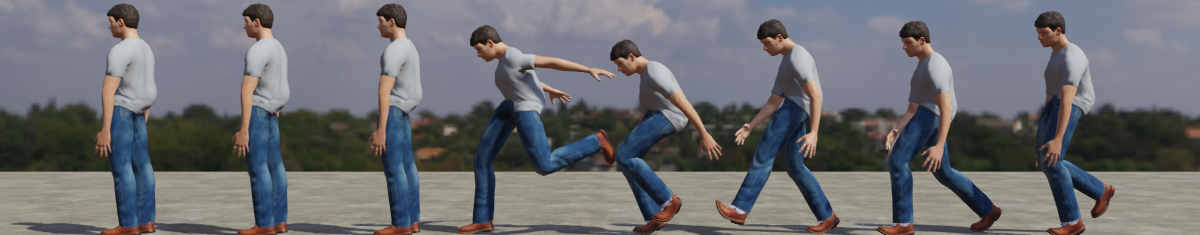
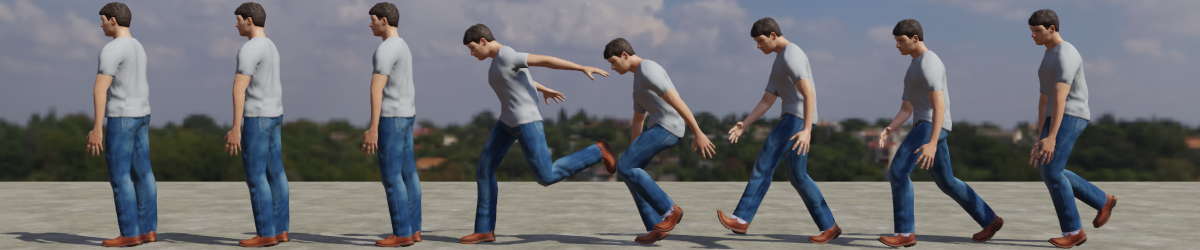
fix(samples): stand the humanoid's pelvis upright in the mocap clips
The retarget's reference pose aimed the pelvis from its joint at the
subject's ToSpine, which sits behind the subject's hips (92 degrees
from vertical against the humanoid's 20), so every clip tipped the
pelvis 72 degrees forward. The pelvis's up is now the hip joints'
midpoint to the chest on both skeletons, which agree within 4 degrees.

The clips are regenerated and the report's images recaptured. HardLand's
footstep moves to 0.333 s; strides and the other events are unchanged.

Changed region(s): [[0.0, 0.0, 1.0, 1.0], [0.6475, 0.0298, 0.6783, 0.0596], [0.1233, 0.834, 0.1542, 0.8638]]

diff --git a/tools/retarget_character_clips.py b/tools/retarget_character_clips.py
@@ -78,10 +78,14 @@ AIM = {
     "thigh_l": ("calf_l", "LeftLeg"), "calf_l": ("foot_l", "LeftFoot"), "foot_l": ("ball_l", "LeftToeBase"),
     "thigh_r": ("calf_r", "RightLeg"), "calf_r": ("foot_r", "RightFoot"), "foot_r": ("ball_r", "RightToeBase"),
 }
-# Bones aimed by two directions (up to the first child, across to the pair of joints that give left and right).
+# Bones aimed by two directions (up to a joint, across to the pair of joints that give left and right). Up is
+# measured from the bone's own joint, or from the across pair's midpoint where the joint is not comparable.
 FRAMES = {
-    "pelvis": (("spine_01", "ToSpine"), ("thigh_l", "thigh_r", "LeftUpLeg", "RightUpLeg")),
-    "spine_03": (("neck_01", "Neck"), ("clavicle_l", "clavicle_r", "LeftShoulder", "RightShoulder")),
+    # Up is the trunk's axis, the hip joints' midpoint to the chest: the subject's `ToSpine` sits behind its
+    # hips (Hips to ToSpine is 92 degrees from vertical, pelvis to spine_01 20), so aiming at it tipped the
+    # pelvis 72 degrees forward. Measured this way the two agree within 4 degrees.
+    "pelvis": (("spine_03", "Spine1"), ("thigh_l", "thigh_r", "LeftUpLeg", "RightUpLeg"), "midpoint"),
+    "spine_03": (("neck_01", "Neck"), ("clavicle_l", "clavicle_r", "LeftShoulder", "RightShoulder"), "joint"),
 }
 
 CONTACT_HEIGHT = 0.025  # metres above the ground: a shoe this low is down...
@@ -525,10 +529,14 @@ class Retargeter:
             source = MAPPING[name]
             self.ref_source[bone] = g @ reference.rot(source, reference_frame)
             if name in FRAMES:
-                (child, s_child), (left, right, s_left, s_right) = FRAMES[name]
-                up_t = R_stand[bone] @ rig.translation[idx[child]]
+                (child, s_child), (left, right, s_left, s_right), up_from = FRAMES[name]
+                if up_from == "midpoint":
+                    up_t = P_stand[idx[child]] - (P_stand[idx[left]] + P_stand[idx[right]]) / 2.0
+                    up_s = s_head(s_child) - (s_head(s_left) + s_head(s_right)) / 2.0
+                else:
+                    up_t = R_stand[bone] @ rig.translation[idx[child]]
+                    up_s = s_head(s_child) - s_head(source)
                 across_t = R_stand[bone] @ (rig.translation[idx[right]] - rig.translation[idx[left]])
-                up_s = s_head(s_child) - s_head(source)
                 across_s = s_head(s_right) - s_head(s_left)
                 turn = frame_of(up_s, across_s) @ frame_of(up_t, across_t).T
             elif name in AIM:

diff --git a/apps/samples/character/LICENSES.md b/apps/samples/character/LICENSES.md
@@ -172,7 +172,7 @@ All five takes are one performer (Male 1), captured at 30 Hz in centimetres with
 
 - **Import**: Blender's own BVH importer reads each take (scale 0.01, so metres) and every joint's world position and orientation is sampled at each captured frame; the rest runs outside Blender.
 - **Floor**: the capture floor tilts about 1 cm a metre along the walk (planted ankles rise from step to step), so a line fitted under both ankles' heights along each take's travel is taken out of every height.
-- **Retargeting**: the standing take's first frame is the reference. The humanoid is put in a matching pose (its `Stand` pose, each mapped bone turned the least that points it as the subject's bone points; the pelvis and the chest by their up and left-to-right directions), and at every frame each mapped bone's world orientation is the subject's bone's change from the reference applied to that pose. `Hips`, `ToSpine`, `Spine`, `Spine1`, `Neck`, `Head` map to `pelvis`, `spine_01..03`, `neck_01`, `head`; `LeftShoulder`, `LeftArm`, `LeftForeArm`, `LeftHand` to `clavicle_l`, `upperarm_l`, `lowerarm_l`, `hand_l`; `LeftUpLeg`, `LeftLeg`, `LeftFoot`, `LeftToeBase` to `thigh_l`, `calf_l`, `foot_l`, `ball_l`, and the right side alike. The fingers keep `Stand`'s pose (the takes have none). The hips travel as the subject's, scaled by the legs' length ratio, 0.98, and each leg is solved by two-bone inverse kinematics so the ankle follows the subject's (scaled), since the humanoid's thigh and shin are not in the subject's proportion.
+- **Retargeting**: the standing take's first frame is the reference. The humanoid is put in a matching pose (its `Stand` pose, each mapped bone turned the least that points it as the subject's bone points; the pelvis and the chest by their up and left-to-right directions, the pelvis's up being the hip joints' midpoint to the chest, since the subject's `ToSpine` sits behind its hips and aiming at it tipped the pelvis forward), and at every frame each mapped bone's world orientation is the subject's bone's change from the reference applied to that pose. `Hips`, `ToSpine`, `Spine`, `Spine1`, `Neck`, `Head` map to `pelvis`, `spine_01..03`, `neck_01`, `head`; `LeftShoulder`, `LeftArm`, `LeftForeArm`, `LeftHand` to `clavicle_l`, `upperarm_l`, `lowerarm_l`, `hand_l`; `LeftUpLeg`, `LeftLeg`, `LeftFoot`, `LeftToeBase` to `thigh_l`, `calf_l`, `foot_l`, `ball_l`, and the right side alike. The fingers keep `Stand`'s pose (the takes have none). The hips travel as the subject's, scaled by the legs' length ratio, 0.98, and each leg is solved by two-bone inverse kinematics so the ankle follows the subject's (scaled), since the humanoid's thigh and shin are not in the subject's proportion.
 - **Facing and metres**: each take is turned about the vertical so it travels (or, standing, faces) along -Z, the engine's forward, with the character's left on -X, as the model is.
 - **Foot height**: the shoes are skinned from the model's mesh and weights at every frame. Each take is lifted so both shoes stand at y = 0 (the 10th percentile of each shoe's lowest vertex; the two shoes do not come out at the same height, 1 to 5 cm apart depending on the take, so each foot is levelled on its own), then a planted shoe is moved onto the ground and one below it out, through its ankle's goal, smoothed over five frames. No shoe goes more than 2 mm below the ground in any clip.
 - **Contacts**: a shoe is planted while its lowest vertex is within 2.5 cm of the ground and its heel or toes move slower than 0.6 m/s; the frame it comes down is a footstep. These are the frames the events and cycles below use.
@@ -186,9 +186,9 @@ All five takes are one performer (Male 1), captured at 30 Hz in centimetres with
 | `JumpStart` | Running jump, 18 to 35: the crouch, the take-off (the feet leave the ground at frame 33) and two frames after, the rise taken out | 0.567 s | no | |
 | `Fall` | Running jump, 39 to 45 and back: the descent from the top, played forwards then backwards, its height taken out, the shoes 2 cm above the bottom | 0.4 s | yes | |
 | `Land` | Walking hop, 110 to 134: from a frame before the right foot touches (111), the pelvis 11 cm down, until it is back nine tenths of the way to its walking height | 0.8 s | no | `landing` 0.033, `footstep` left 0.6 |
-| `HardLand` | Running jump, 46 to 68: from a frame before the left foot touches (47), both feet down, the pelvis 24 cm down, until it is back nine tenths of the way | 0.733 s | no | `landing` (argument `hard`) 0.033, `footstep` left 0.367 |
+| `HardLand` | Running jump, 46 to 68: from a frame before the left foot touches (47), both feet down, the pelvis 24 cm down, until it is back nine tenths of the way | 0.733 s | no | `landing` (argument `hard`) 0.033, `footstep` left 0.333 |
 
-- **Cycles**: the key times are warped piecewise linearly so the right footstep falls at half the cycle, as T4's phase synchronisation needs of walk and run alike (left down at 0, right at 0.5). The captured right footsteps fall at 0.486 of the walk's cycle and 0.45 of the run's, so the warp moves them by 1.7% and 5% of the cycle. What the last key differs from the first is spread over the cycle so the clip loops: at most 12.6° on one joint for the walk (the right shin, in swing) and 26.7° for the run (the right toes; the run take is two strides long and the two are not alike), and the pelvis's height.
+- **Cycles**: the key times are warped piecewise linearly so the right footstep falls at half the cycle, as T4's phase synchronisation needs of walk and run alike (left down at 0, right at 0.5). The captured right footsteps fall at 0.514 of the walk's cycle and 0.45 of the run's, so the warp moves them by 1.4% and 5% of the cycle. What the last key differs from the first is spread over the cycle so the clip loops: at most 19.8° on one joint for the walk (the right shin, in swing) and 26.7° for the run (the right toes; the run take is two strides long and the two are not alike), and the pelvis's height.
 - **Strides** (metres per cycle, the hips' travel over the cycle in the take before it is put in place; T9's speed-matched playback divides by them): `Walk` **1.505 m** per 1.167 s, 1.29 m/s; `Run` **3.235 m** per 0.667 s, 4.85 m/s. Measured from the feet instead (each foot's planted position a cycle apart) they are 1.44 and 1.44 m for the walk and 3.27 and 3.10 m for the run, the take's speed not being quite constant.
 - **Sliding**: in the takes as retargeted (before they are put in place), a planted heel or toe moves at most 1.3 cm (walk) and 1.5 cm (run) over a contact.
 - **Keys**: one per captured frame (30 Hz), linear; a rotation for each of the 53 joints and the pelvis's translation, about 290 KB for the seven clips.

diff --git a/docs/reports/character-clips.md b/docs/reports/character-clips.md
@@ -12,7 +12,7 @@ Issue [#505](https://github.com/Pacheco95/sonnet/issues/505), T7b of the Third-P
 | `JumpStart` | 0.567 s | no | | |
 | `Fall` | 0.4 s | yes | | |
 | `Land` | 0.8 s | no | `landing` 0.033, `footstep` left 0.6 | |
-| `HardLand` | 0.733 s | no | `landing` (`hard`) 0.033, `footstep` left 0.367 | |
+| `HardLand` | 0.733 s | no | `landing` (`hard`) 0.033, `footstep` left 0.333 | |
 
 Every clip is in place: the capsule moves the character ([ADR-0038](../decisions/0038-character-controller.md)), so the clips keep the body's own sway and bob and drop the travel. Units are metres, the character faces -Z with its left on -X, and the shoes stand on y = 0 (no shoe goes more than 2 mm below it in any clip). Walk and run both put the left footstep at phase 0 and the right at 0.5, so a synchronised layer ([ADR-0038](../decisions/0038-character-controller.md#animation-weights-and-synchronisation)) keeps their feet together; T9's speed-matched playback divides the ground speed by the strides above. `landing` is the frame the first foot touches, one frame into the clip so the first update crosses it; `HardLand`'s carries the argument `hard`, and the footsteps after a landing are the other foot coming down. Keys are the capture's own, 30 a second, linear.
 
@@ -32,7 +32,7 @@ The two footsteps, `Walk` at 0 (left heel down, left arm back) and 0.583 (right 
 
 ![Run](character-clips/run.png)
 
-`JumpStart` at 0, 0.133, 0.267, 0.4 and 0.533 (the feet off the ground), `Fall` at 0 and 0.2, then `HardLand` at 0.033 (its `landing` event, the left foot down), 0.2, 0.367 (its `footstep`) and 0.7:
+`JumpStart` at 0, 0.133, 0.267, 0.4 and 0.533 (the feet off the ground), `Fall` at 0 and 0.2, then `HardLand` at 0.033 (its `landing` event, the left foot down), 0.2, 0.333 (its `footstep`) and 0.7:
 
 ![Jump](character-clips/jump.png)
 
@@ -54,6 +54,6 @@ The editor in play mode (`sonnet_editor --scene <temporary> --play 1.5 --front g
 ## Not covered
 
 - **A dedicated fall and landings from a standing jump.** ACCAD's Male 1 takes have none; the fall is the descent of a running jump, played forwards then back, and both landings come from moving jumps (`Land` from a hop on the walk, landing on the right foot; `HardLand` from a running two-footed jump), so they carry some forward lean.
-- **The run's loop**: the take is two strides long and they differ, so closing the loop spreads up to 26.7° (the right toes) over the cycle; the walk's is at most 12.6°. Neither jumps, but the run is less regular than a long take would be.
+- **The run's loop**: the take is two strides long and they differ, so closing the loop spreads up to 26.7° (the right toes) over the cycle; the walk's is at most 19.8°. Neither jumps, but the run is less regular than a long take would be.
 - **Foot sliding in play** depends on T9's speed-matched playback; in the retargeted takes a planted heel or toe moves at most 1.5 cm over a contact. Foot IK on slopes and steps is [#500](https://github.com/Pacheco95/sonnet/issues/500).
 - **Placement in the start scene** and the clip switching are T9's ([#496](https://github.com/Pacheco95/sonnet/issues/496)).
